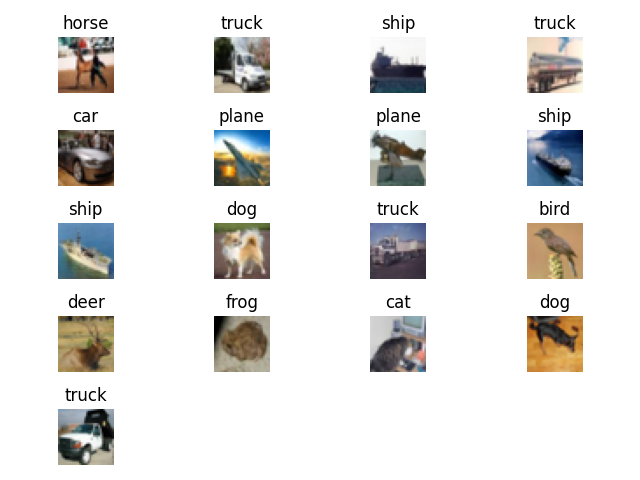
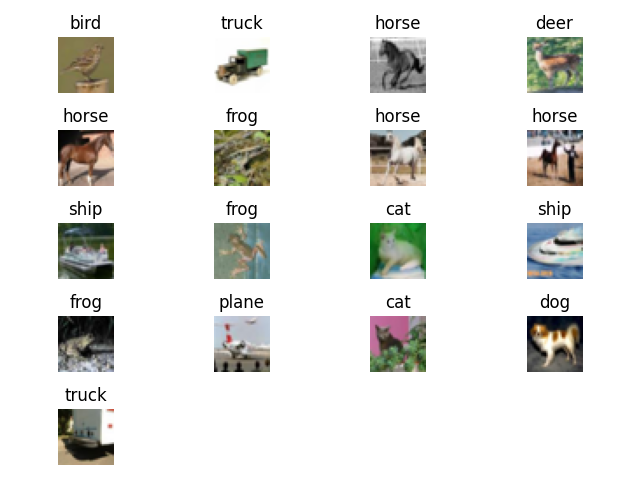
グレースケール画像も一緒に描画可能になった

diff --git a/src/utils.py b/src/utils.py
@@ -153,6 +153,34 @@ def col2im(col, input_shape, filter_h, filter_w, stride=1, pad=0):
     
     return img[:, :, pad:H + pad, pad:W + pad]
 
+def tensor_to_display_image(tensor_img):
+    """tensor画像をplot描画用画像に変換する
+    Parameter
+    ---------
+    tensor_img : (C, H, W)
+    """
+    C = tensor_img.shape[0]
+    display_img = tensor_img.permute(1, 2, 0).detach().cpu().numpy()
+    
+    match C:
+        case 3:
+            pass
+        case 1:
+            display_img = display_img.squeeze(2)
+        case _:
+            display_img = display_img.mean(dim=2)
+        
+    return display_img
+
+def get_cmap(channel_nums):
+    """plt.imshowに使用するcmapを取得
+    """
+    
+    if channel_nums == 3:
+        return None
+    else:
+        return "gray"
+    
 def plot_imgs(data, num_cols, save_filename):
     """取得した画像分描画する
     Parameter
@@ -162,9 +190,11 @@ def plot_imgs(data, num_cols, save_filename):
     save_filename : 保存するファイル名
     """
     
+    display_img = None
+    cmap = None
+    channel_nums = 1
     N = len(data) # 描画する画像の枚数
     rows = math.ceil(N / num_cols) # 余りも含めて表示できる行数
-
     fig, axes = plt.subplots(rows, num_cols)
 
     # プロット時は余りのデータまで
@@ -174,7 +204,14 @@ def plot_imgs(data, num_cols, save_filename):
             if idx >= N :
                 fig.delaxes(axes[r, c]) # 描画する画像の枚数よりも大きなidxを持つaxは一つずつ削除
                 continue
-            axes[r, c].imshow(data[idx].output.permute(1, 2, 0).detach().numpy())
+            tensor_img = data[idx].output
+            if idx == 2:
+                tensor_img = tensor_img.mean(dim=0, keepdims=True)
+                print(tensor_img.shape)
+            display_img = tensor_to_display_image(tensor_img) # 描画用画像を取得
+            channel_nums = display_img.shape[0] # cmapを取得
+            cmap = get_cmap(channel_nums)
+            axes[r, c].imshow(display_img, cmap=cmap)
             axes[r, c].set_title(data[idx].name)
             axes[r, c].axis("off")
     fig.tight_layout() # 各axisが重ならないように設定

diff --git a/src/recorder.py b/src/recorder.py
@@ -14,12 +14,14 @@ class Recorder:
         self.PLOT_NUM = 5 # 横方向にプロットする画像サイズ
     
     def forward_hook(self, layer, ctx):
+        """input画像は3チャンネル。その他の画像はチャンネル方向に平均した画像を格納
+        """
         class_name = layer.__class__.__name__
         
         if len(self.forward_feature_maps) == 0:
             self.forward_feature_maps["Input"] = ctx.inputs
         
-        self.forward_feature_maps[class_name] = ctx.outputs
+        self.forward_feature_maps[class_name] = ctx.outputs.mean(dim=1)
         # print(f"順伝搬{layer.__class__.__name__, ctx.inputs.shape, ctx.outputs.shape}")
 
     def backward_hook(self, layer, dout):